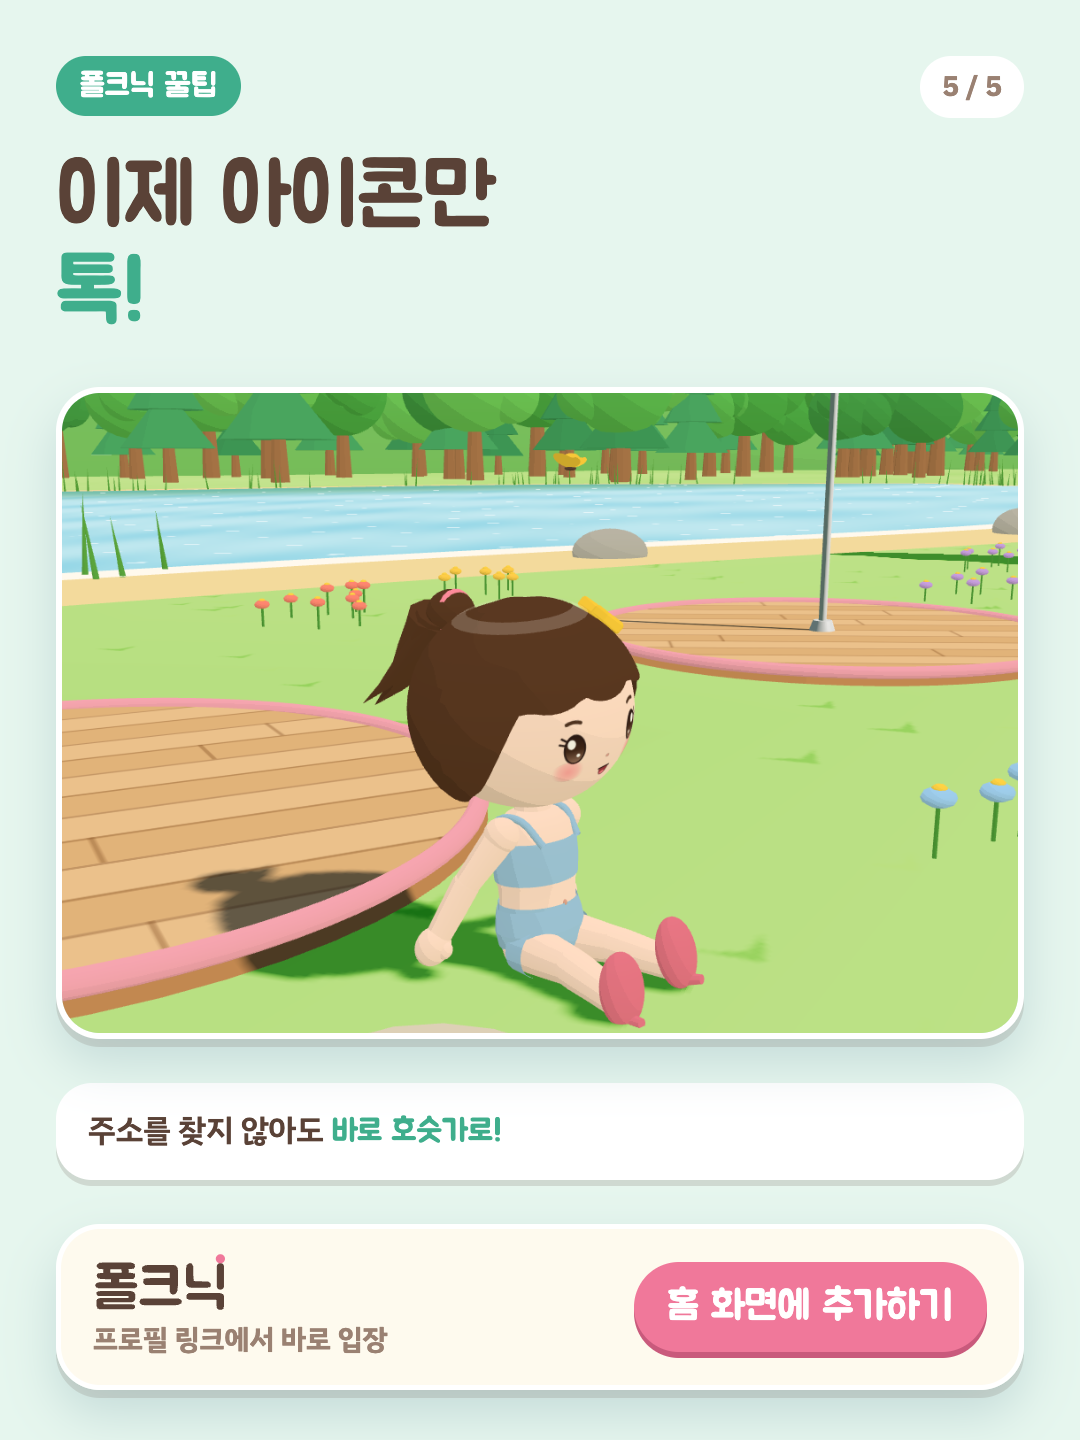
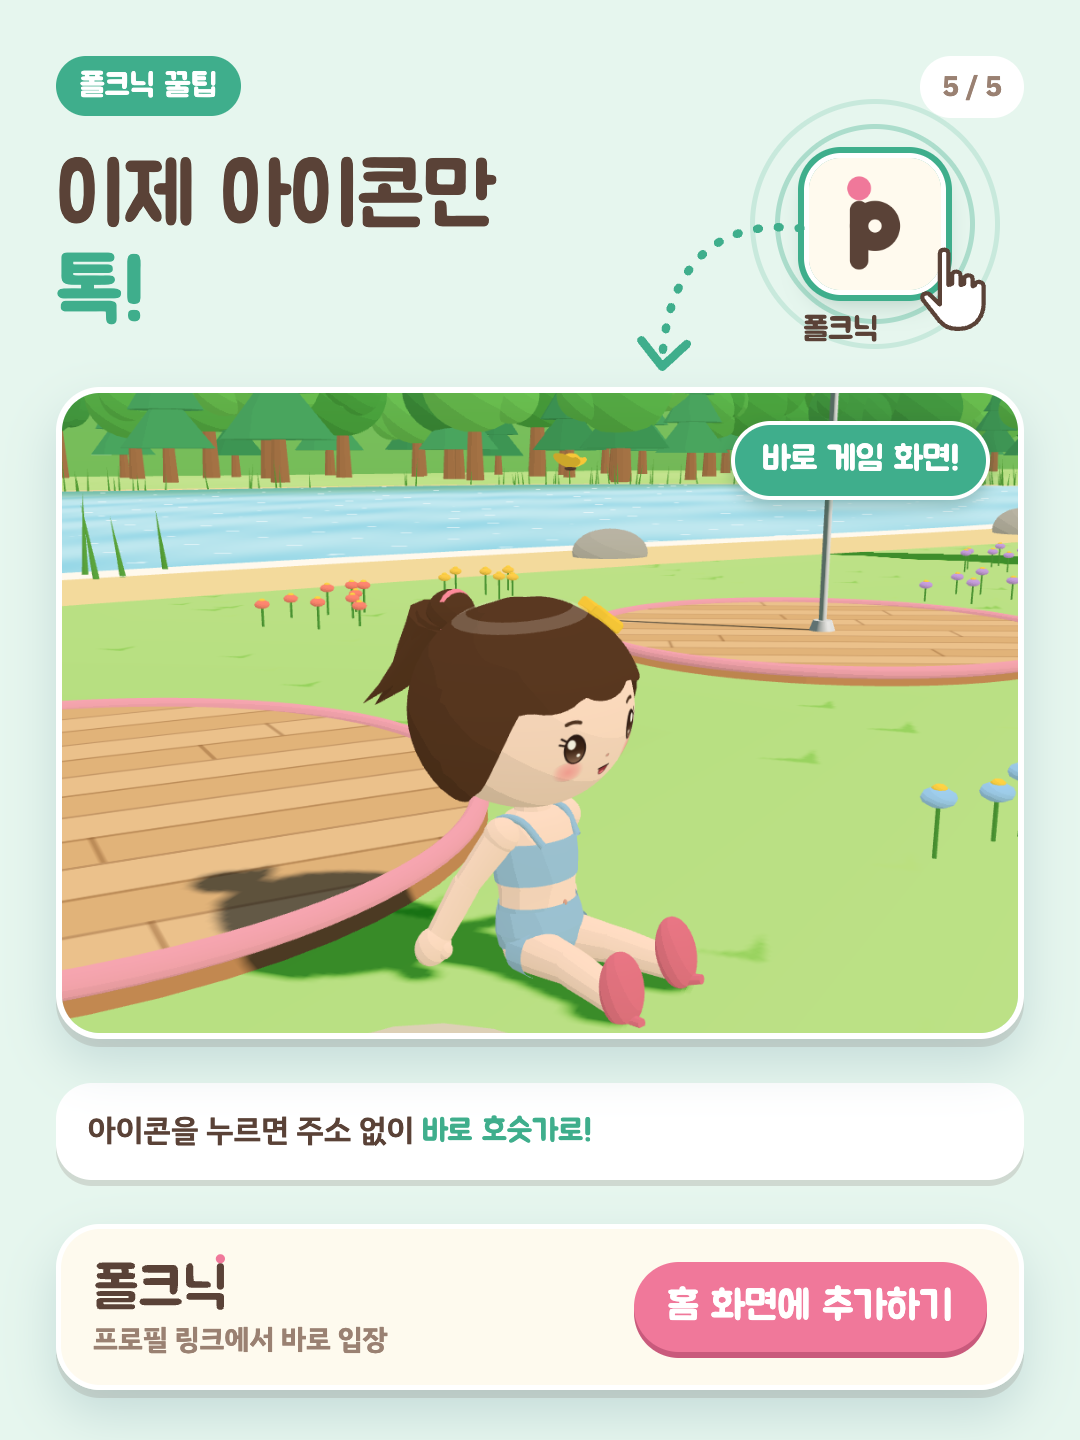
인스타: 앱처럼 쓰기 마지막 장에 아이콘 톡 → 게임 화면 안내, 캡션 이모지 말투를 스킬에 기록

diff --git a/marketing/instagram/posts.html b/marketing/instagram/posts.html
@@ -226,6 +226,14 @@ body.export .ab::before{display:none}
 #p05-5-done .cta .word{height:58px;display:block}
 #p05-5-done .cta .d{font-size:28px;font-weight:700;color:var(--ink-soft);margin-top:8px}
 #p05-5-done .cta .btn{margin-left:auto}
+#p05-5-done .tap{position:absolute;right:120px;top:158px;width:170px;text-align:center;z-index:2}
+#p05-5-done .tap .ico{position:relative;width:132px;height:132px;margin:0 auto}
+#p05-5-done .tap .ico img{width:100%;border-radius:32px;display:block;box-shadow:0 0 0 5px #fff,0 0 0 11px #3fae8c,0 12px 26px rgba(40,90,70,.3)}
+#p05-5-done .tap .ring{position:absolute;left:50%;top:50%;border-radius:50%;border:5px solid #3fae8c;transform:translate(-50%,-50%);opacity:.35}
+#p05-5-done .tap .hand{position:absolute;right:-50px;bottom:-44px;width:78px}
+#p05-5-done .tap b{display:block;margin-top:20px;transform:translateX(-34px);font:400 32px var(--f-d);color:var(--ink)}
+#p05-5-done .arrow{position:absolute;right:270px;top:200px;width:180px;z-index:2}
+#p05-5-done .photo .chip{position:absolute;right:28px;top:28px;background:#3fae8c;color:#fff;font:400 34px var(--f-d);padding:14px 26px;border-radius:999px;box-shadow:0 6px 16px rgba(40,90,70,.3)}
 </style>
 </head>
 <body>
@@ -515,8 +523,15 @@ body.export .ab::before{display:none}
 <section class="ab inner tip" id="p05-5-done">
   <span class="series tip">폴크닉 꿀팁</span><span class="pageno">5 / 5</span>
   <h2 class="ititle">이제 아이콘만<br><em>톡!</em></h2>
-  <div class="photo"><img src="renders/play-sit.png" alt=""></div>
-  <div class="note">주소를 찾지 않아도 <b>바로 호숫가로!</b></div>
+  <div class="tap">
+    <div class="ico"><span class="ring" style="width:190px;height:190px"></span><span class="ring" style="width:240px;height:240px;opacity:.18"></span><img src="../../apple-touch-icon.png" alt="">
+      <svg class="hand" viewBox="0 0 64 72"><path d="M22 6c0-4 7-4 7 0v26l3-1V24c0-4 7-4 7 0v8l3-1v-4c0-4 7-4 7 0v6l2-1c0-4 7-3 7 1v14c0 12-8 21-20 21h-2c-8 0-13-4-17-10L8 44c-2-4 3-7 6-4l8 8z" fill="#fff" stroke="#5a4237" stroke-width="3.5" stroke-linejoin="round"/></svg>
+    </div>
+    <b>폴크닉</b>
+  </div>
+  <svg class="arrow" viewBox="0 0 190 200"><path d="M180 30C90 20 40 70 34 168" fill="none" stroke="#3fae8c" stroke-width="9" stroke-linecap="round" stroke-dasharray="2 20"/><path d="M12 148l22 28 26-24" fill="none" stroke="#3fae8c" stroke-width="9" stroke-linecap="round" stroke-linejoin="round"/></svg>
+  <div class="photo"><img src="renders/play-sit.png" alt=""><span class="chip">바로 게임 화면!</span></div>
+  <div class="note">아이콘을 누르면 주소 없이 <b>바로 호숫가로!</b></div>
   <div class="cta panel"><div><img class="word" src="../logo/v2/wordmark.svg" alt="폴크닉"><div class="d">프로필 링크에서 바로 입장</div></div><div class="btn pink">홈 화면에 추가하기</div></div>
 </section>
 
